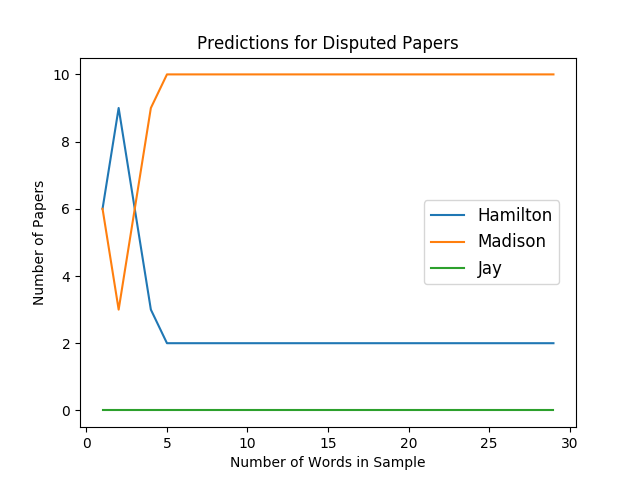
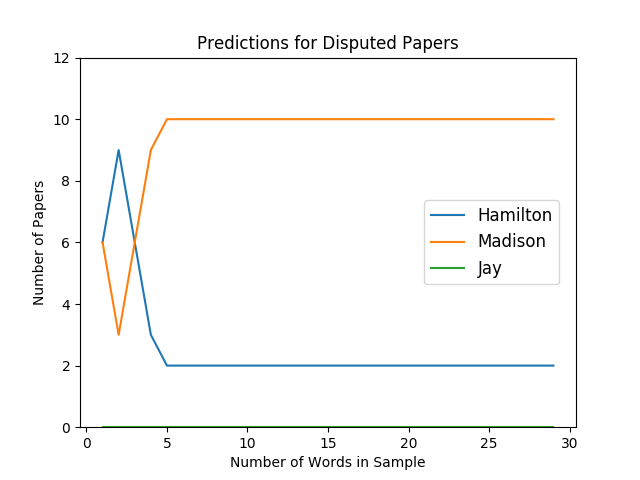
Added updated charts

diff --git a/Main.py b/Main.py
@@ -206,14 +206,16 @@ def plot(title, xLabel, yLabel, x, y, seriesLabels=None):
 	plt.title(title)
 	plt.xlabel(xLabel)
 	plt.ylabel(yLabel)
-
 	
 	if seriesLabels:
 		for i in range(len(seriesLabels)):
 			plt.plot(x, y[i], label=seriesLabels[i])
 
 		plt.legend(borderaxespad=1, fontsize=12)
+		plt.ylim(0, 12)
 	else:
+		plt.ylim(0, 50)
+
 		plt.plot(x, y)
 
 	plt.savefig('%s.png' % title, format='png')
@@ -223,9 +225,9 @@ def main():
 	readData('papers.txt')
 
 	# Remove
-	# for i in range(18, 21):
-	# 	authorsToPaperNumbers['HAMILTON'].remove(i)
-	# 	authorsToPaperNumbers['MADISON'].remove(i)
+	for i in range(18, 21):
+		authorsToPaperNumbers['HAMILTON'].remove(i)
+		authorsToPaperNumbers['MADISON'].remove(i)
 
 	topNWords = topWords(50)
 	papersToWordsToFrequencies = tf()
@@ -238,7 +240,7 @@ def main():
 			authorsToSamples = sampleForTopN(topNWords, papersToWordsToFrequencies, i)
 			error.append(kNN(authorsToSamples, papersToWordsToFrequencies, False))
 		
-		plot('Training Error for Number of Words', 'Number of Words in Sample', 'Training Error: Incorrect Author Predictions (%)', Ns, error)
+		plot('Training Error for Number of Words (No Joint)', 'Number of Words in Sample', 'Training Error: Incorrect Author Predictions (%)', Ns, error)
 	elif sys.argv[1] == '-d':
 		predictions = []
 		for i in Ns:
@@ -247,7 +249,7 @@ def main():
 
 		predictions = [[x[0] for x in predictions], [x[1] for x in predictions], [x[2] for x in predictions]]
 		print predictions
-		plot('Predictions for Disputed Papers', 'Number of Words in Sample', 'Number of Papers', Ns, predictions, ['Hamilton', 'Madison', 'Jay'])
+		plot('Predictions for Disputed Papers (No Joint)', 'Number of Words in Sample', 'Number of Papers', Ns, predictions, ['Hamilton', 'Madison', 'Jay'])
 	
 if __name__ == '__main__':
     main()
